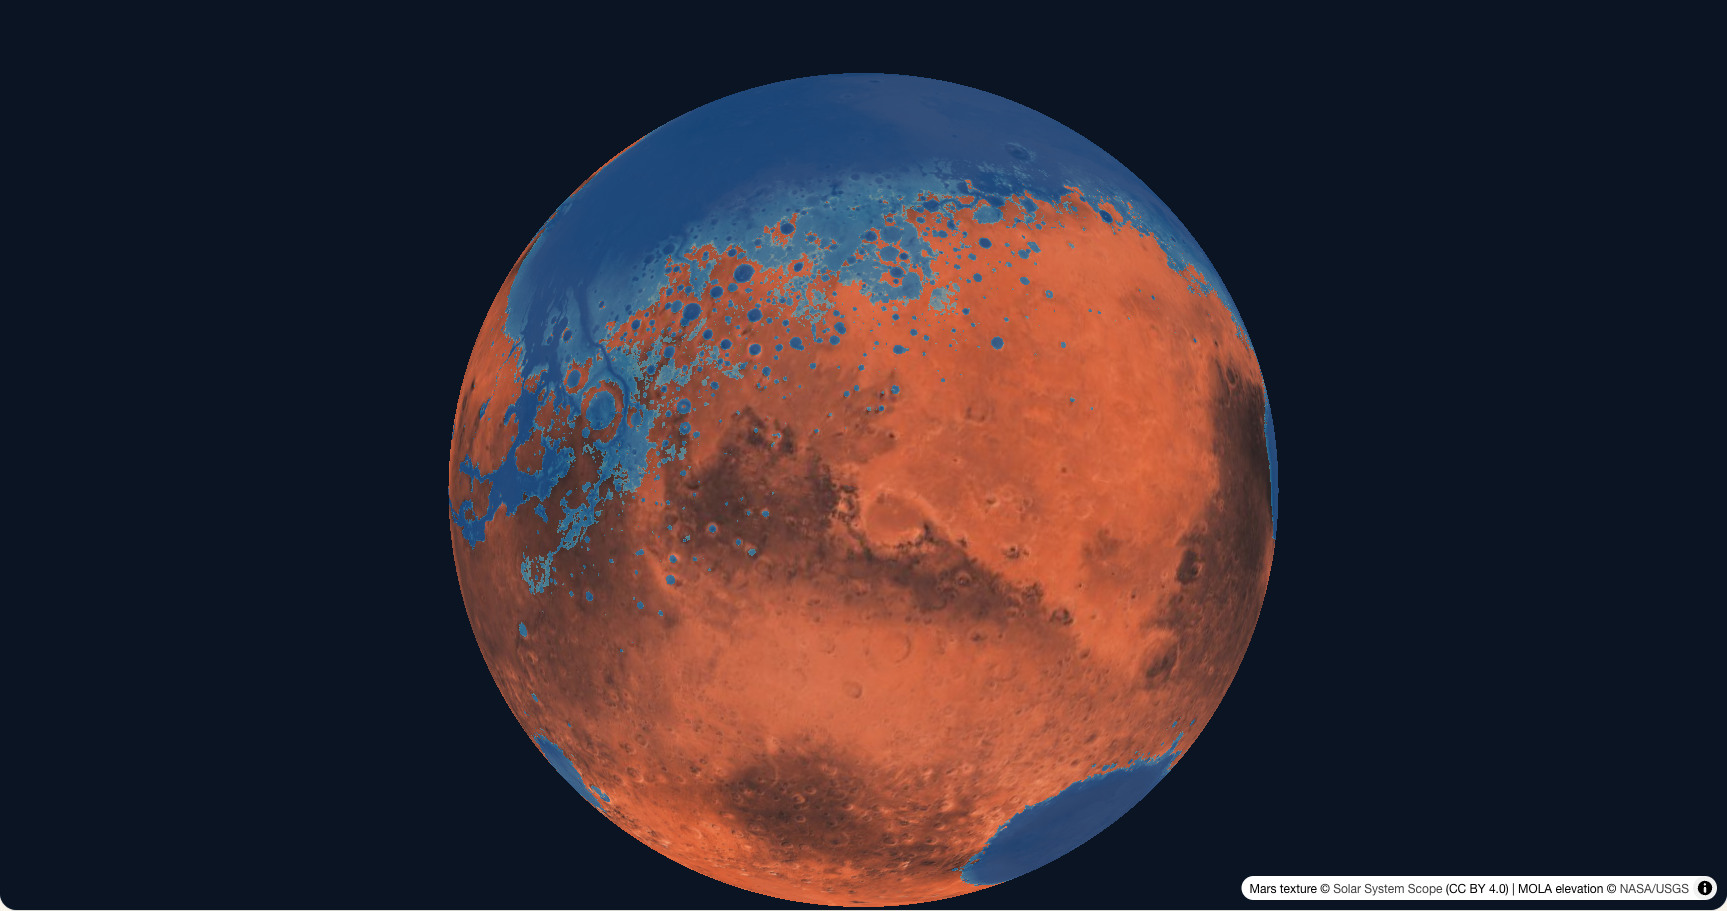
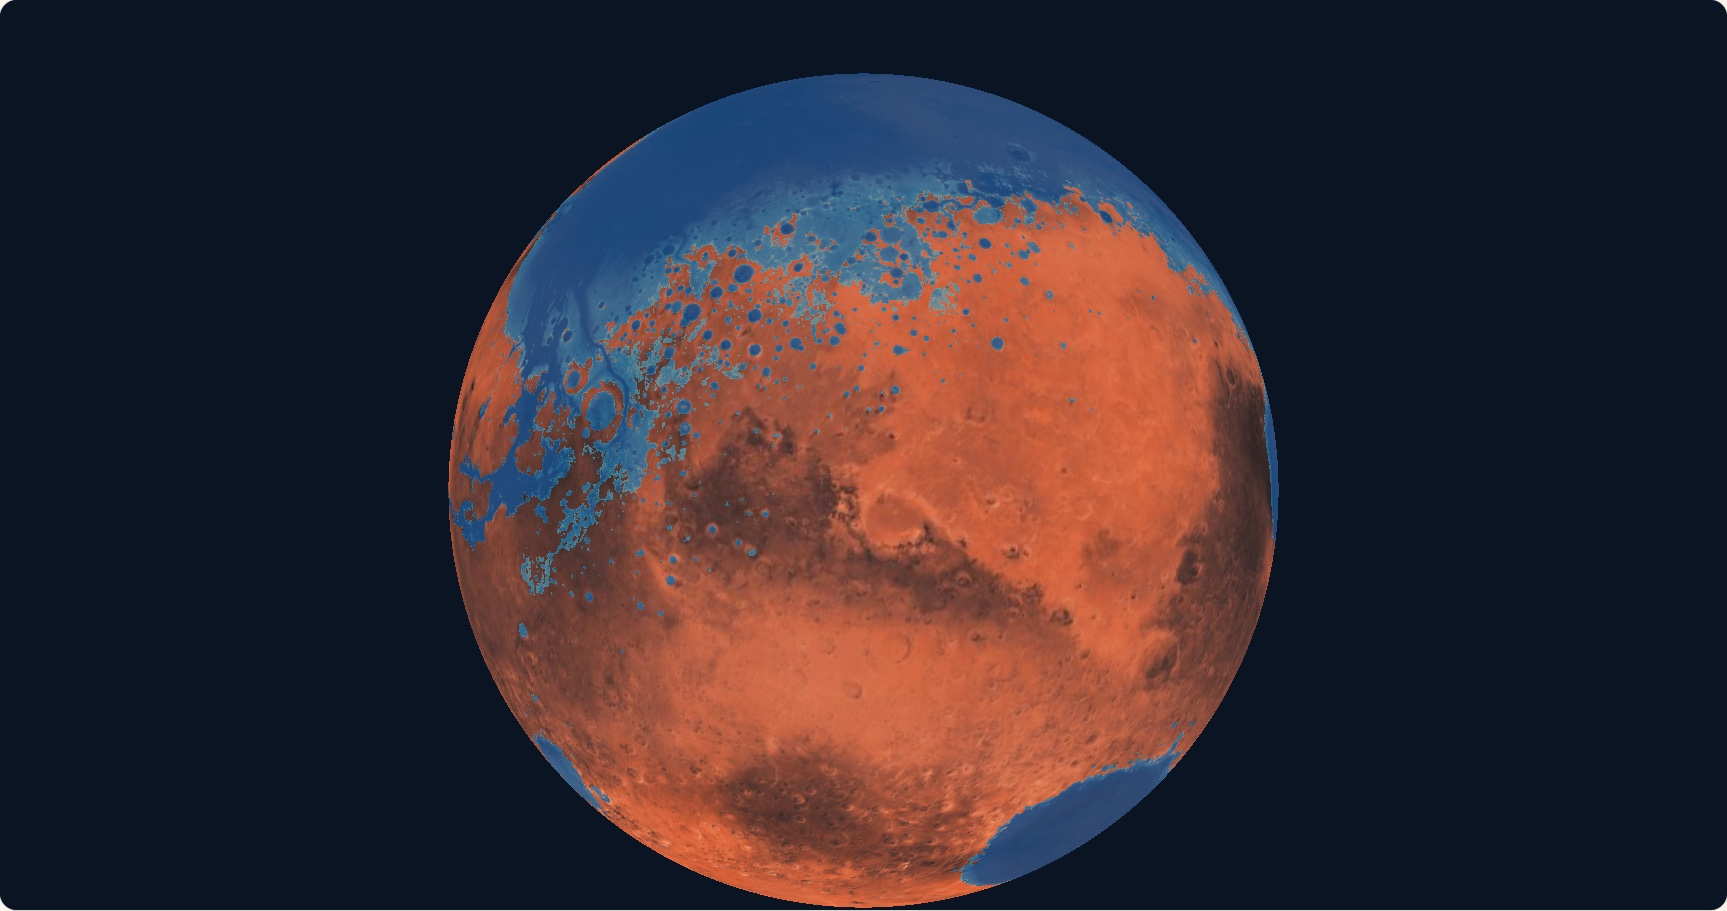
Refresh Mars recommendation cover without source overlay (#6)
* fix: refresh Mars tool cover without source overlay

* docs: require public credits before clean cover release

* docs: clarify low-risk Mars cover release gate

* docs: record Mars cover release decision

diff --git a/SEO_WORKLOG.md b/SEO_WORKLOG.md
@@ -28,6 +28,15 @@
 
 ---
 
+## 2026-09-24：火星封面与来源 UI 调整，Google 更新重叠记录
+
+- **09:42 PDT，America/Los_Angeles 复核**：[Google Search Status Dashboard](https://status.search.google.com/) 已显示 [September 2026 spam update](https://status.search.google.com/incidents/XhUDXP7A67iHCD2kmbVu) 进行中。官方记录的开始时间是 **09:15 PDT**，适用于全球所有语言，预计最长约两周；Dashboard 页面最后更新 09:28 PDT。排名历史同步列出该更新。重新检查 [Search Central 公告](https://developers.google.com/search/blog)和[文档更新](https://developers.google.com/search/updates)，未发现另一个与本次火星工具封面调整相关的政策执行窗口。
+- **先前发布发生重叠**：火星工具 PR 于 09:23:52 PDT 合并，地球页推荐卡片 PR 于 09:27:35 PDT 合并，随后生产部署成功。之前的发布前检查所见 Dashboard 最后更新时间为 08:58 PDT，当时尚未显示这次更新；现在以官方新记录为准。停止后续 SEO 改动和推广范围扩大，不把之后的流量变化单独归因于任何一个站点改动，也不因宣布更新而自动回滚。
+- **本次待审范围**：火星工具去掉可见的地图署名控件与正文来源段落，并重新截取没有叠字的 JPG；本仓库只替换 `/tool/true-size-map/sea-level-rise-simulator` 推荐卡片引用的同路径 JPG。地球页 title、H1、description、canonical、robots、结构化数据、链接和地图功能均不变；根页不变。原始素材来源记录保留在另一仓库的 `public/data/MARS_SOURCES.md`，等待统一 reference 页面。
+- **GSC 基线与 10:03 PDT 发布决定**：发布前最近完整日仍是 2026-09-21；海平面页 9/15–9/21 为 1,860 点击、10,782 展示、平均位次 5.20。更新开始后的最终数据尚不可用，不将缺失日计为零。再次核对官方 Dashboard（最后更新 09:58 PDT）、排名历史、Search Central 公告和文档更新：September 2026 spam update 仍在进行，没有发现另一项与本次封面有关的政策执行窗口。用户确认上线两个仓库的待审变更。本仓库只替换同路径 JPG；对照推荐卡片加入前的提交，`src/seo-meta.json` 和 `src/App.tsx` 均未变，海平面页 title、meta description、H1 保持原值。按顶部政策的流量与范围标准，这次不是重大或高风险 SEO 改动，决定放行，不套用重大改动的 7 个完整 GSC 日门槛。火星贴图来源、CC BY 4.0 链接和改编说明已公开保存在 `https://tinytovast.com/data/MARS_SOURCES.md`；火星页以非可视的文档链接指向该记录，后续再迁到统一 reference 页面。更新与先前发布重叠，观察流量时继续保留这一干扰说明。
+
+---
+
 ## 2026-09-24：火星工具推荐卡片发布复核
 
 - **09:19 PDT，America/Los_Angeles 规划复核**：[Google Search Status Dashboard](https://status.search.google.com/) 显示无事件（页面最后更新 08:58 PDT）；[排名更新历史](https://status.search.google.com/products/rGHU1u87FJnkP6W2GwMi/history)最近仍是 August 2026 spam update，8/18 09:27–8/21 01:49 PDT，已结束；[Search Central 公告](https://developers.google.com/search/blog)和[文档更新](https://developers.google.com/search/updates)没有与本站自有工具推荐卡片相关的新政策或执行窗口。正式部署前必须再次实时复核。
